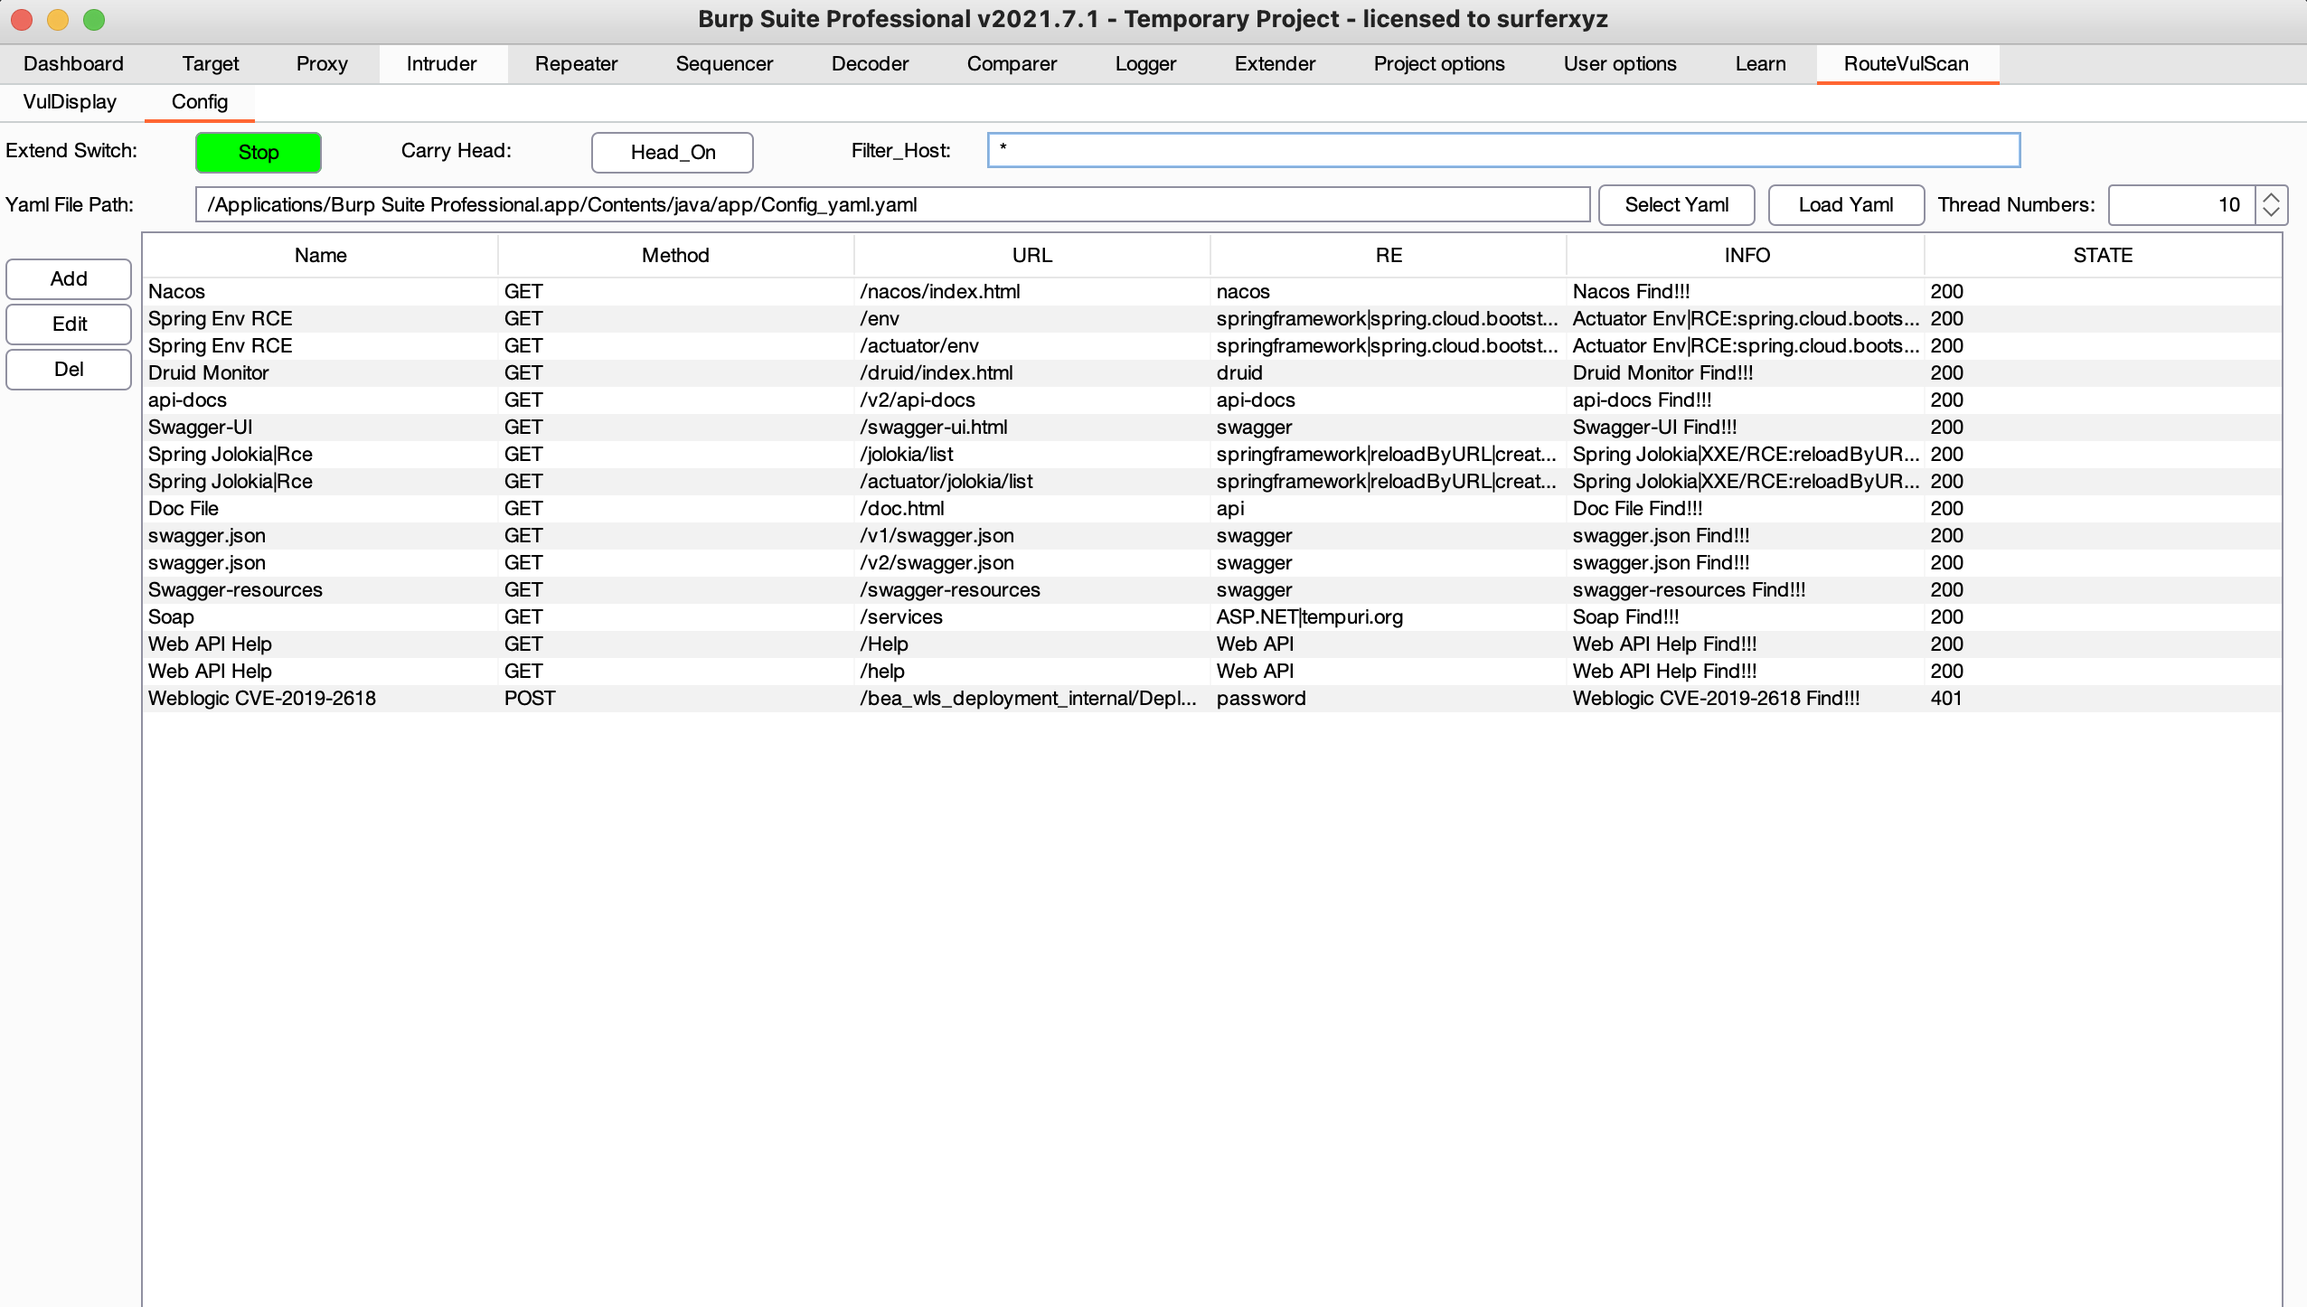
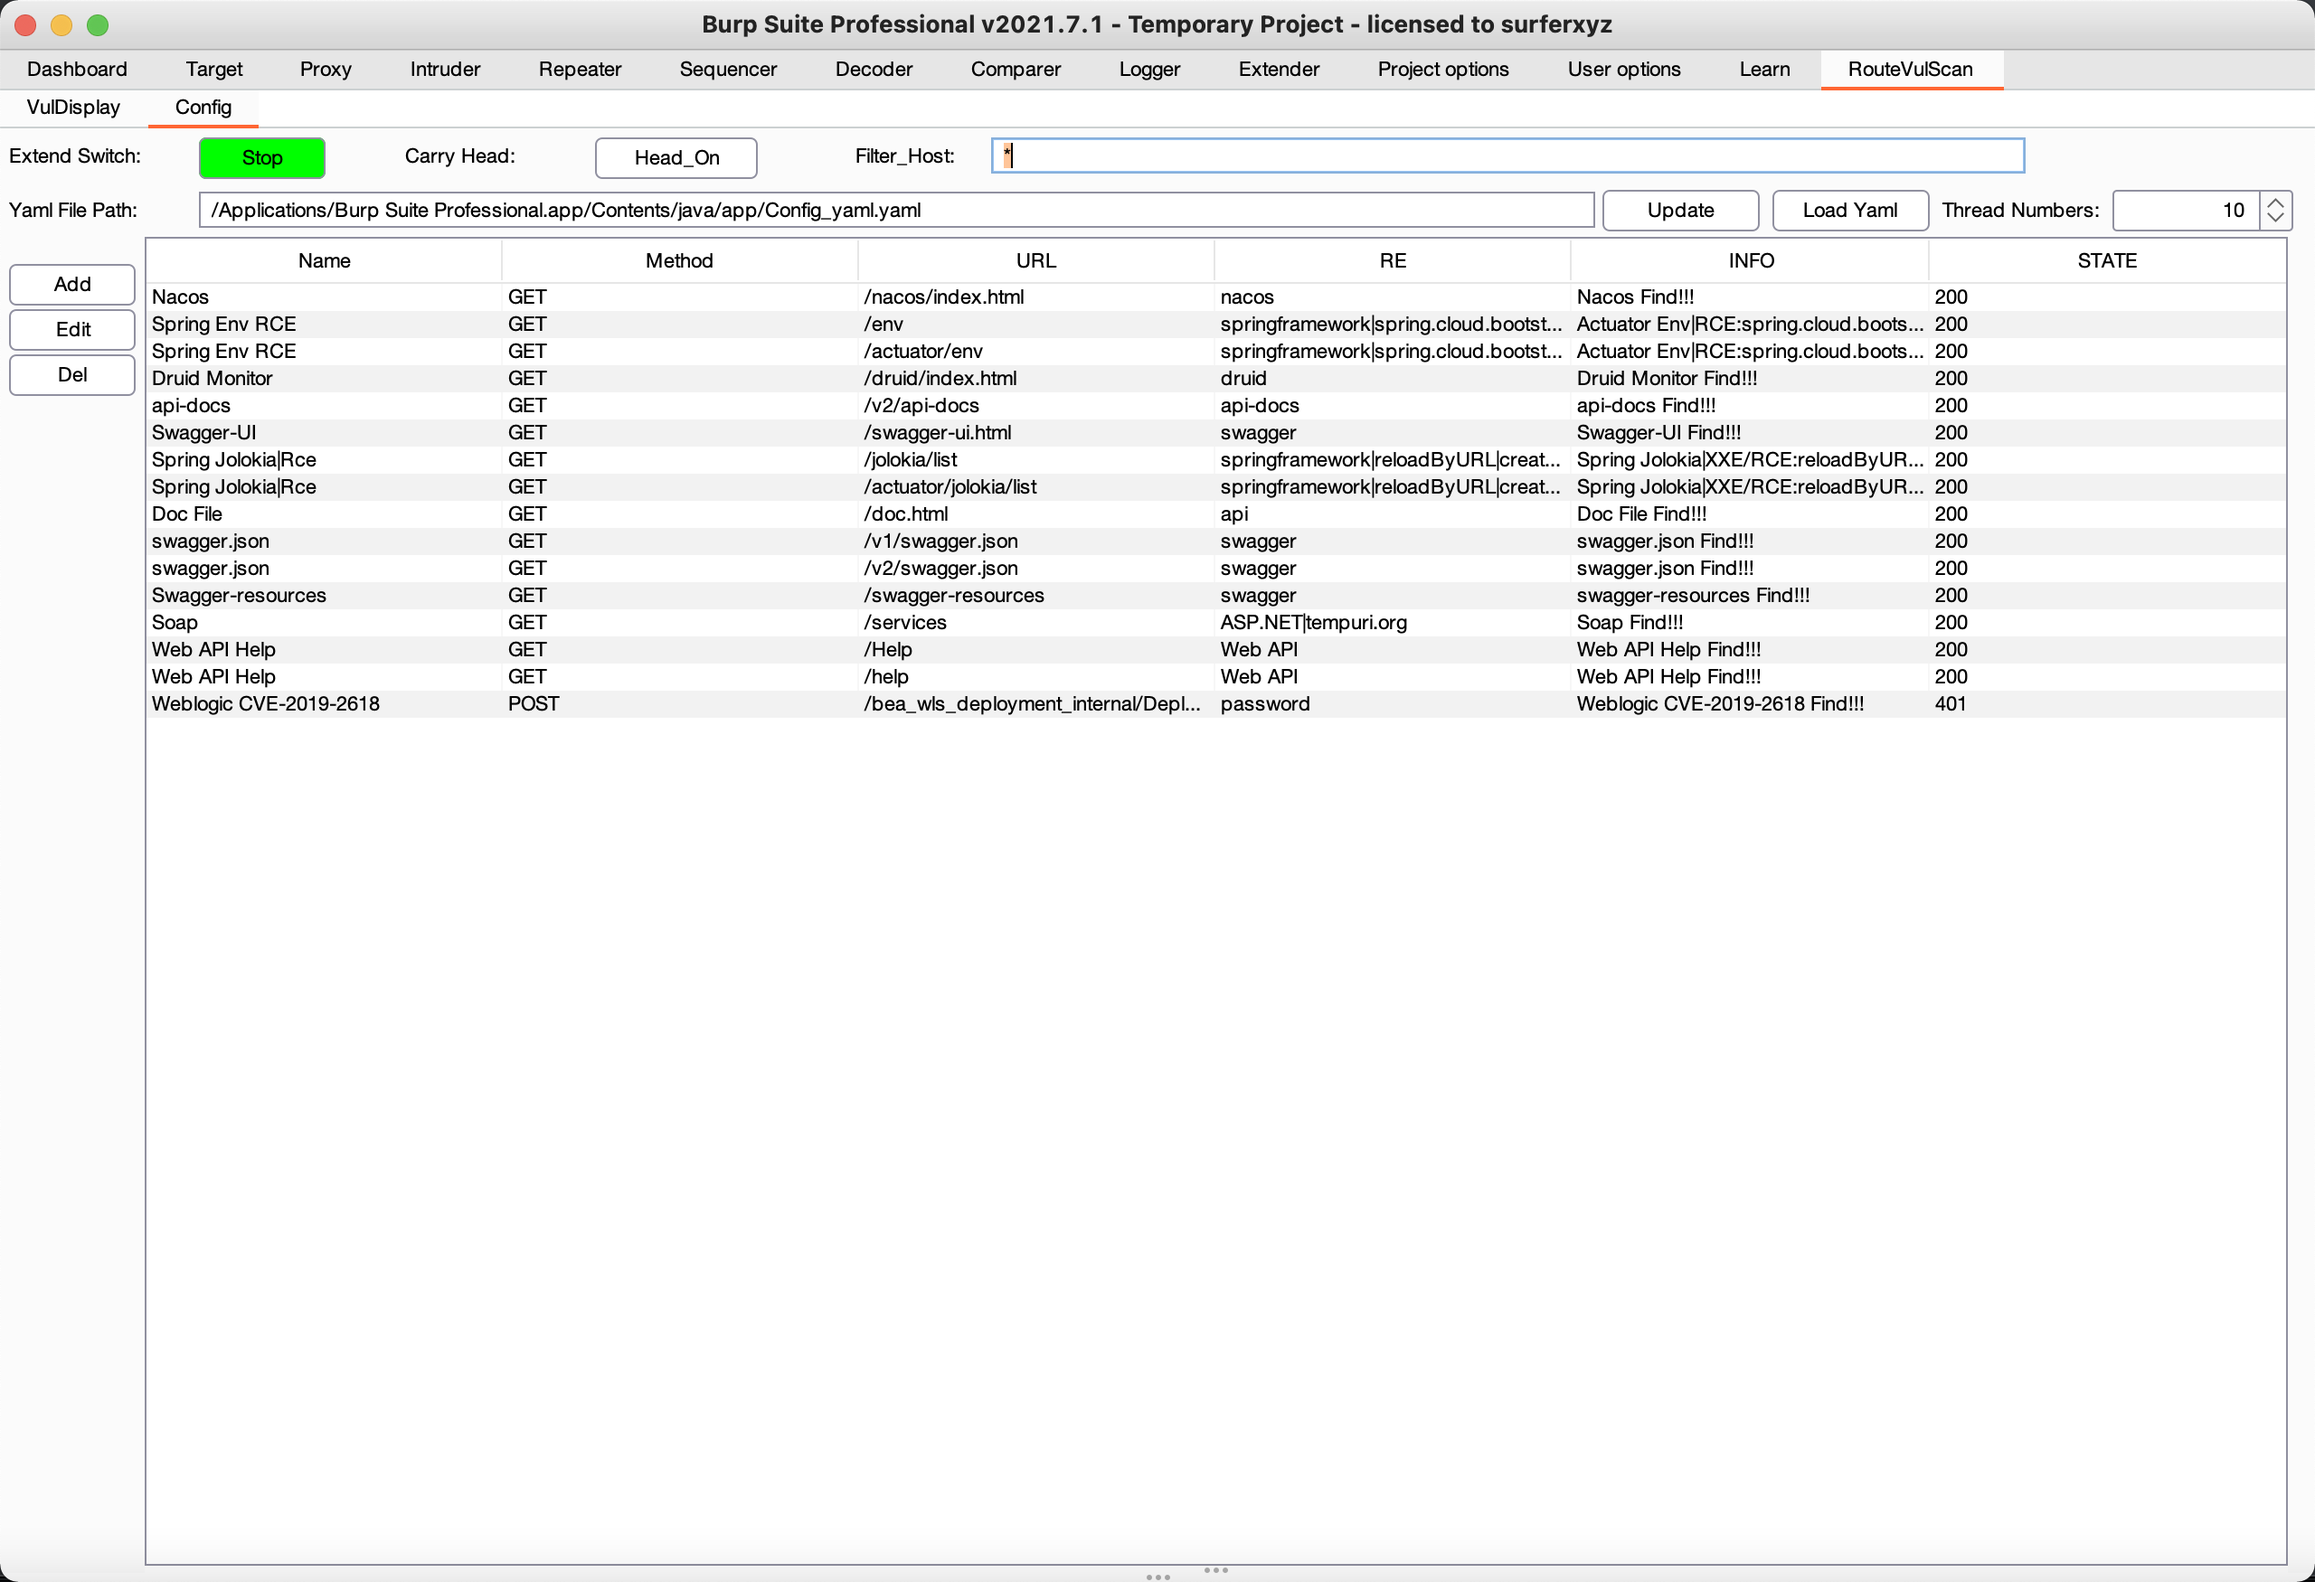
update

diff --git a/src/main/java/yaml/YamlUtil.java b/src/main/java/yaml/YamlUtil.java
@@ -1,41 +1,26 @@
 package yaml;
 
 import burp.BurpExtender;
-import burp.IHttpRequestResponse;
-import burp.IHttpService;
+import com.squareup.okhttp.OkHttpClient;
+import com.squareup.okhttp.Request;
+import com.squareup.okhttp.Response;
 import org.yaml.snakeyaml.Yaml;
 
 import java.io.*;
-import java.net.URL;
 import java.util.*;
 
 public class YamlUtil {
 
-    public static Boolean init_Yaml(BurpExtender burp){
-        URL Get_url;
+    public static Boolean init_Yaml(){
         try {
-            int start_thread_num = Thread.activeCount();
-            Get_url = new URL("https://raw.githubusercontent.com/F6JO/RouteVulScan/main/Config_yaml.yaml");
-            byte[] request = burp.help.buildHttpRequest(Get_url);
-            IHttpService httpService = burp.help.buildHttpService("raw.githubusercontent.com", 443, true);
-            Send_config thread = new Send_config(burp, httpService, request);
-            thread.start();
-            int second = 0;
-            while (true) {
-                if (Thread.activeCount() > start_thread_num) {
-                    Thread.sleep(1000);
-                    second += 1;
-                    if (second == 20) {
-                        thread.stop();
-                        return false;
-                    }
-                }else {
-                    break;
-                }
-            }
-
-
-        } catch (Exception e) {
+            String url = "https://raw.githubusercontent.com/F6JO/RouteVulScan/main/Config_yaml.yaml";
+            OkHttpClient httpClient = new OkHttpClient();
+            Request httpRequest = new Request.Builder().url(url).get().build();
+            Response httpResponse = httpClient.newCall(httpRequest).execute();
+            FileOutputStream file = new FileOutputStream(BurpExtender.Yaml_Path);
+            file.write(httpResponse.body().bytes());
+            file.close();
+        } catch (IOException e) {
             return false;
         }
 
@@ -124,28 +109,3 @@ public class YamlUtil {
 }
 
 
-class Send_config extends Thread {
-    private BurpExtender burp;
-    private IHttpService httpService;
-    byte[] request;
-    public Send_config(BurpExtender burp,IHttpService httpService,byte[] request){
-        this.burp = burp;
-        this.httpService = httpService;
-        this.request = request;
-    }
-
-    public void run(){
-        try {
-            IHttpRequestResponse response = burp.call.makeHttpRequest(httpService, request);
-            String[] zifuchuan = burp.help.bytesToString(response.getResponse()).split("\r\n\r\n");
-            FileWriter file = null;
-            file = new FileWriter(BurpExtender.Yaml_Path);
-            file.write(zifuchuan[1]);
-            file.close();
-        } catch (IOException e) {
-            stop();
-        }
-
-    }
-
-}

diff --git a/src/main/java/burp/Config.java b/src/main/java/burp/Config.java
@@ -201,7 +201,7 @@ public class Config {
             @Override
             public void actionPerformed(ActionEvent e) {
 
-                if (YamlUtil.init_Yaml(burp)){
+                if (YamlUtil.init_Yaml()){
                     Bfunc.show_yaml(view_class, log, txtfield1.getText());
                     JOptionPane.showMessageDialog(one,"Update successful","Tips ",1);
                 }else {

diff --git a/README.md b/README.md
@@ -29,7 +29,9 @@ RouteVulScan是使用java语言基于burpsuite api开发的可以递归检测脆
 
 * 装载插件：``` Extender - Extensions - Add - Select File - Next ```
 
-* 初次装载插件会在burpsuite当前目录下生成Config_yaml.yaml配置文件，点击
+* 初次装载插件会在burpsuite当前目录下生成Config_yaml.yaml配置文件，点击Update按钮更新最新规则。需要注意的是，如果你有自己添加的规则，最好先备份，因为在线更新会直接覆盖规则文件。
+
+  <img src="./img/update.jpg">
 
 * 使用Burpsuite IScannerCheck接口，在流量初次流经burp时进行扫描，重复流量不会进行扫描。
 
@@ -45,7 +47,7 @@ RouteVulScan是使用java语言基于burpsuite api开发的可以递归检测脆
 
   <img src="./img/remove.jpg">
 
-* 右键请求可选择将当前请求发送到插件进行主动扫描，插件会将站点地图中，与当前请求一样host的历史路径全部进行扫描
+* 右键请求可选择将当前请求发送到插件进行主动扫描，插件会将站点地图中，与当前请求使用一样host的历史路径全部进行扫描
 
   <img src="./img/Active_scan.jpg">
 
@@ -59,17 +61,14 @@ RouteVulScan是使用java语言基于burpsuite api开发的可以递归检测脆
 
 * 右键选择请求发送到插件扫描【✓】
 * 域名过滤【✓】
-* 批量添加规则
 * UI界面增加数据包大小【✓】 
 * VulDisplay界面添加删除功能【✓】
 * 插件功能开关【✓】
 * 带原始请求头访问【✓】
 * 可自定义post/get请求【✓】
-* 配置文件在线更新
+* 配置文件在线更新【✓】
 
-## 提示
 
-	更新1.2版本后，需要把之前的配置文件删除，插件会新生成一个配置文件
 
 ## 最后
 
